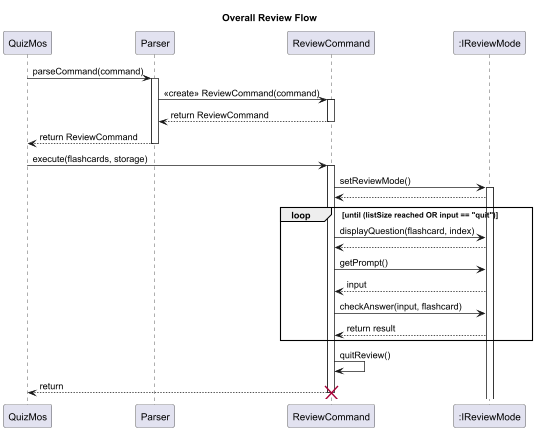
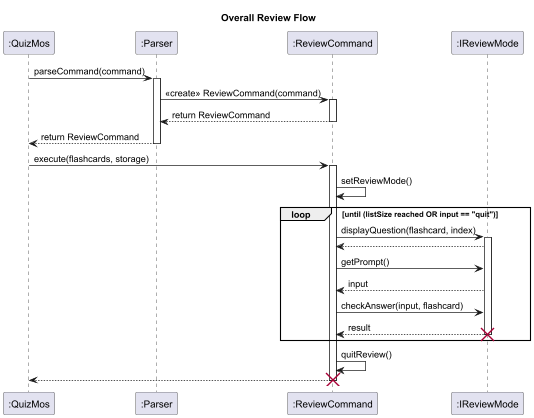
Add DG (overall architecture, review features), UG Quick start

diff --git a/docs/DeveloperGuide.md b/docs/DeveloperGuide.md
@@ -5,38 +5,54 @@
 ## Table of Contents
 
 1. [Acknowledgements](#acknowledgements)
-2. [Architecture](#architecture)
-  - [UI Component](#ui-component)
-  - [Logic Component](#logic-component)
-  - [Model Component](#model-component)
-  - [Main Component](#main-component)
-  - [Storage Component](#storage-component)
-  - [Commons Component](#commons-component)
-  - [Overall Architecture Diagram](#overall-architecture-diagram)
-3. [Features](#features)
-  - [Feature 1: Add Flashcard](#feature-1-add-flashcard)
-  - [Feature 2: Delete Flashcard](#feature-2-delete-flashcard)
-  - [Feature 3: Search Flashcard](#feature-3-search-flashcard)
-  - [Feature 4: Review Flashcards](#feature-4-review-flashcards)
-  - [Feature 5: Star Flashcard](#feature-5-star-flashcard)
+2. [Design](#design)
+   - [Architecture](#architecture)
+   - [UI Component](#ui-component)
+   - [Logic Component](#logic-component)
+   - [Model Component](#model-component)
+   - [Main Component](#main-component)
+   - [Storage Component](#storage-component)
+   - [Commons Component](#commons-component)
+   - [Overall Architecture Diagram](#overall-architecture-diagram)
+3. [Implementation](#implementation)
+   - [Feature 1: Add Flashcard](#feature-1-add-flashcard)
+   - [Feature 2: Delete Flashcard](#feature-2-delete-flashcard)
+   - [Feature 3: Search Flashcard](#feature-3-search-flashcard)
+   - [Feature 4: Review Flashcards](#feature-4-review-flashcards)
+   - [Feature 5: Star Flashcard](#feature-5-star-flashcard)
 4. [Requirements](#requirements)
-  - [Use Cases](#use-cases)
-  - [Non-Functional Requirements (NFRs)](#non-functional-requirements-nfrs)
-  - [Glossary](#glossary)
+   - [Use Cases](#use-cases)
+   - [Non-Functional Requirements (NFRs)](#non-functional-requirements-nfrs)
+   - [Glossary](#glossary)
 5. [Instructions for Manual Testing](#instructions-for-manual-testing)
 
 ---
 
 ## Acknowledgements
 
-{list here sources of all reused/adapted ideas, code, documentation, and third-party libraries -- include links to the original source as well}
+- [JUnit 5](https://junit.org/) - For unit testing.
+- [Gradle](https://gradle.org/) - For build automation.
+- [PlantUML](https://plantuml.com/) - For creating UML diagrams.
 
 ---
 
-## Architecture
+## Design
 
-This section explains the high-level architecture of the application.  
-The app follows a **Command-based architecture**, where the user interacts via text commands that are parsed and executed by the system.
+### Architecture
+
+![Overall Architect](images/OverallArchitect.png "Overall Architect")
+
+The **_Architecture Diagram_** given above explains the high-level design of the App.
+
+- `Main`: Launch app and shut down
+  - At app launch, it initializes the other components in the correct sequence, and connects them up with each other.
+  - At shut down, it shuts down the other components.
+- `UI`: The UI of the App, in charge of print out information in format.
+- `Logic`: The Command parser and executor.
+- `Model`: Stores data of the App in memory.
+- `Storage`: Reads data from, and writes data to, the hard disk.
+
+The sections below give more details of each component
 
 ### UI Component
 
@@ -79,11 +95,14 @@ The app follows a **Command-based architecture**, where the user interacts via t
 
 ---
 
-## Features
+## Implementation
+
+This section describes some noteworthy details on how certain features are implemented.
 
 ### Feature 1: Add Flashcard
 
 **Command:** `add q/<question> a/<answer>`
+
 **Explanation:** 
 - The `Parser` identifies the add command and creates a new `AddFlashcardCommand`.
 - The `AddFlashcardCommand` parses the user input.
@@ -96,6 +115,7 @@ The app follows a **Command-based architecture**, where the user interacts via t
 ### Feature 2: Delete Flashcard
 
 **Command:** `delete <index>`
+
 **Explanation:**
 - The `Parser` identifies the delete command and creates a new `RemoveFlashcardCommand`.
 - The `RemoveFlashcardCommand` parses the user input.
@@ -108,6 +128,7 @@ The app follows a **Command-based architecture**, where the user interacts via t
 ### Feature 3: Search Flashcard
 
 **Command:** `search <keyphrase>`
+
 **Explanation:**
 - The `Parser` identifies the search command and creates a new `SearchFlashcardCommand`.
 - The `SearchFlashcardCommand` parses the user input.
@@ -119,6 +140,31 @@ The app follows a **Command-based architecture**, where the user interacts via t
 
 ### Feature 4: Review Flashcards
 
+**Command:** `review m/[FLIP  \| TF \| MCQ]`
+
+**Explanation:**
+- The `Parser` instantiates `ReviewCommand`, which immediately parses and validates the mode from the user's input.
+- The `execute()` method first verifies the `FlashcardList` isn't empty. It then calls `setReviewMode()` to dynamically create and assign the correct review object (e.g., `MultipleChoiceReview`) for the review mode.
+- The `reviewLoop()` iterates through the flashcards, performing three actions per card via the `reviewMode` object:
+  1. Display: Shows the question (mode-specific formatting included).
+  2. Input: Retrieves the user's answer (or breaks the loop if the input is `quit`). 
+  3. Resolution: Checks the answer via `checkAnswer()` and updates the correct counter.
+- Eventually, the `quitReview()` method displays the session summary, including total cards reviewed and final results (for non-flip modes).
+![OverallReviewFlow](images/ReviewFeature_Overall.png)
+
+- **Flip mode flow**
+  - The App displays the question only.
+  - The user is prompted (y/n) to reveal the answer.
+  - `checkAnswer()` simply prints the answer if the user input is 'y'. No score tracking is done, as the user dictates correctness.
+- **MCQ mode flow**
+  - `displayQuestion()` first calls the `listOfChoices()` helper method. This method generates a list of four unique random indices (include the correct one).
+  - The App tracks the correct answer's index internally.
+  - `checkAnswer()` checks the user's input (1–4) against the internal correct index and updates the score.
+- **TF mode flow**
+  - `displayQuestion()` presents the flashcard's question paired with an answer that is randomly selected from the entire `FlashcardList`.
+  - `currentAnswer` is set to `true` (default is `false`) if the random answer matches the correct answer.
+  - The user inputs `t` or `f`. `checkAnswer()` compares the user's input with the pre-determined `currentAnswer` boolean to evaluate correctness and updates the score.
+     
 ### Feature 5: Star Flashcard
 
 ---
@@ -128,11 +174,17 @@ The app follows a **Command-based architecture**, where the user interacts via t
 ### Use Cases
 
 ### Non-Functional Requirements (NFRs)
-
+- The display of the next question and answer resolution must occur within 500 milliseconds per card.
+- The App must prevent the start of any review session if the `FlashcardList` is empty, throwing an appropriate exception.
+- The application must prohibit starting MCQ review if the `FlashcardList` contains fewer than 4 flashcards.
+- All review mode prompts must perform immediate input validation and provide clear, specific error messages for incorrect choices.
+- The review session must guarantee a graceful exit upon receiving the `quit` command, regardless of the user's progress in the loop.
 ---
 
 ## Glossary
-
+- **FLIP mode:** A basic mode where the user views the question and manually chooses whether or not to reveal the answer.
+- **MCQ mode (Multi-choice questions):** A mode that presents the user with four answer choices (including the correct one), forcing them to select one number. Requires at least four flashcards in the list.
+- **TF mode:** A mode where a flashcard's question is paired with a randomly selected answer (which may or may not be correct). The user must decide if the resulting statement is true or false.
 ---
 
 ## Instructions for Manual Testing

diff --git a/docs/UserGuide.md b/docs/UserGuide.md
@@ -20,12 +20,31 @@ QuizMos automatically saves your flashcards to a file, ensuring your collection 
 
 ---
 
-## Quick Start {not yet completed}
+## Quick Start 
 
-{Give steps to get started quickly}
-
-1. {step 1}
-2. {step 2}
+1. Ensure you have Java `17` or above installed in your Computer.<br>
+   **Mac users:** Ensure you have the precise JDK version prescribed [here](https://se-education.org/guides/tutorials/javaInstallationMac.html).
+2. Download the latest `.jar` file from [here](https://github.com/AY2526S1-CS2113-T11-1/tp/releases).
+3. Copy the file to the folder you want to use as the _home folder_ for your QuizMos.
+4. Open a command terminal, cd into the folder you put the jar file in, and use the `java -jar quizmos.jar` command to run the application.<br>
+    A CLI similar to the below should appear. Note how the App gives you the first step.
+    ```bash
+    ____________________________________________________________
+    Hello, I'm QuizMos
+      ___        _     __  __
+     / _ \ _   _(_)___|  \/  | ___  ___
+    | | | | | | | |_  / |\/| |/ _ \/ __|
+    | |_| | |_| | |/ /| |  | | (_) \__ \
+     \__\_\\__,_|_/___|_|  |_|\___/|___/
+    Try command `help` for more information
+    ____________________________________________________________
+    ```
+5. Type some commands to execute it. Some example commands you can try:
+   - `help`: Shows all command formats.
+   - `list`: Lists all flashcards.
+   - `add q/1+1 a/2`: Add your first flashcard. With question is "1+1" and answer is "2".
+   - `exit`: Exits the app
+6. Refer to the [Usage](#usage) below for details of each command.
 
 ---
 
